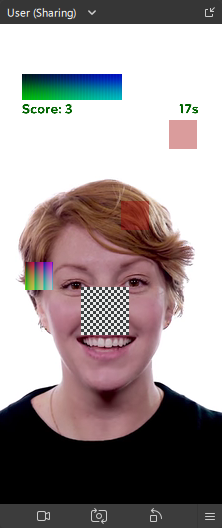
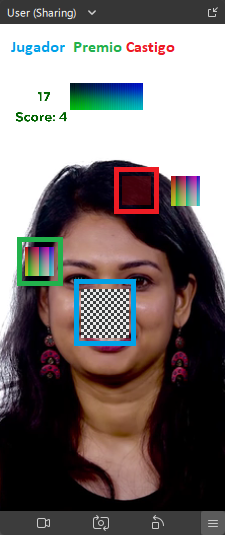
documentación

diff --git a/README.md b/README.md
@@ -1,167 +1,76 @@
-# Juego de destresa en META SPARK AR
+# Juego de destreza en META SPARK AR
 
-_Se puede colocar [Shields](https://shields.io/)_
+__Crear un juego de realidad aumentada con experiencia interactiva.__    
+Atrapa el mayor número de recompensas posibles (gana puntos) esquivando los castigos (pierde puntos). El jugador controla el juego con la nariz moviéndose en un plano 2D, se termina la partida en un tiempo determinado (30s) mostrando el puntaje más alto en las sesiones anteriores. El juego solo funciona con la cámara frontal del dispositivo.
 
-![GitHub package.json dynamic][a]
-![GitHub repo size][b]
-![GitHub top language][c]
-![GitHub language count][d]
-![GitHub][e]
-![GitHub commit activity][f]
-![GitHub package.json dynamic][g]
-![Twitter Follow][h]
-
-_Acá va un párrafo que describa lo que es el proyecto_
+|inicio|juego|final|
+|:-:|:-:|:-:|
+|![inicio](img/inicio.png)|![juego](img/juego.png)|![final](img/final.png)|
 
 ## Tabla de contenido:
 - [🚀 Comenzando][1]
     - [📋 Pre-requisitos][1.1]
     - [🔧 Instalación][1.2]
 - [Ejecutando las pruebas ⚙][2]
-    - [Analice las pruebas end-to-end 🔩][2.1]
-    - [Y las pruebas de estilo de codificación ⌨][2.2]
-- [Despliegue 📦][3]
-- [Construido con 🛠][4]
-- [Contribuyendo 🖇][5]
-- [Wiki 📖][6]
-- [Versionado 📌][7]
-- [Autores ✒][8]
-- [Licencia 📄][9]
-- [Expresiones de Gratitud 🎁][10]
+- [Construido con 🛠][3]
+- [Contribuyendo 🖇][4]
+- [Versionado 📌][5]
+- [Autores ✒][6]
+- [Licencia 📄][7]
+- [Expresiones de Gratitud 🎁][8]
 
 ## Comenzando 🚀
-
-_Estas instrucciones te permitirán obtener una copia del de desarrollo y pruebas._
-
-Mira **Deployment** para conocer como desplegar el proyecto.
-
+El repositorio se encuentra el archivo __juego_destreza.arproj__ .  
+Un archivo con la extensión .arproj es un proyecto de __Meta Spark AR__. El archivo incluye la configuración de la escena, las capas y los efectos que se han aplicado en el proyecto.
 
 ### Pre-requisitos 📋
-
-_Que cosas necesitas para instalar el software y como 
-instalarlas_
-
-```
-Da un ejemplo
-```
+* [Meta Spark Studio](https://sparkar.facebook.com/ar-studio/learn/downloads/#making-and-testing-effects)
+* [Meta Spark para VSC](https://marketplace.visualstudio.com/items?itemName=SparkAR.spark-ar-studio)
 
 ### Instalación 🔧
 
-_Una serie de ejemplos paso a paso que te dice lo que debes 
-ejecutar para tener un entorno de desarrollo ejecutandose_
-
-_Dí cómo será ese paso_
-
-```
-Da un ejemplo
-```
-
-_Y repite_
-
-```
-hasta finalizar
-```
-
-_Finaliza con un ejemplo de cómo obtener datos del sistema o 
-como usarlos para una pequeña demo_
+Ejecuta el archivo [juego_destreza.arproj](juego_destreza.arproj) desde _Meta Spark AR_ que contiene todos los recursos necesarios.
 
 ## Ejecutando las pruebas ⚙
-
-_Explica como ejecutar las pruebas automatizadas para este 
-sistema_
-
-### Analice las pruebas end-to-end 🔩
-
-_Explica que verifican estas pruebas y por qué_
-
-```
-Da un ejemplo
-```
-
-### Y las pruebas de estilo de codificación ⌨
-
-_Explica que verifican estas pruebas y por qué_
-
-```
-Da un ejemplo
-```
-
-## Despliegue 📦
-
-_Agrega notas adicionales sobre como hacer deploy_
+La aplicación móvil Spark AR Player es una aplicación gratuita que te permite probar tus filtros de Spark AR en tiempo real en dispositivos móviles. Puedes descargarla desde la App Store de Apple o Google Play Store.
 
 ## Construido con 🛠
-
-_Menciona las herramientas que utilizaste para crear tu 
-proyecto_
-
-* [Dropwizard](http://www.dropwizard.io/1.0.2/docs/) - El 
-framework web usado
-* [Maven](https://maven.apache.org/) - Manejador de 
-* [ROME](https://rometools.github.io/rome/) - Usado para 
-generar RSS
+* Meta Spark Studio
+* [scripting API](https://sparkar.facebook.com/ar-studio/learn/reference/scripting/summary)
 
 ## Contribuyendo 🖇
 
-Por favor lee el [CONTRIBUTING.md](https://gist.github.com/
-villanuevand/xxxxxx) para detalles de nuestro código de 
+Por favor lee el [CONTRIBUTING.md]() para detalles de nuestro código de 
 conducta, y el proceso para enviarnos pull requests.
-
-## Wiki 📖
-
-Puedes encontrar mucho más de cómo utilizar este proyecto en 
-nuestra [Wiki](https://github.com/tu/proyecto/wiki)
-
 ## Versionado 📌
-
 Usamos [SemVer](http://semver.org/) para el versionado. Para 
 todas las versiones disponibles, mira los [tags en este 
-repositorio](https://github.com/tu/proyecto/tags).
+repositorio](https://github.com/Alfonso6z/juego_destreza_sparkar/tags).
 
 ## Autores ✒
-
-_Menciona a todos aquellos que ayudaron a levantar el proyecto desde sus inicios_
-
-* **Alfonso González Zempoaltca** - *Trabajo Inicial* - [Alfonso6z](https://github.com/Alfonso6z)
-* **Fulanito Detal** - *Documentación* - [fulanitodetal](#fulanito-de-tal)
-
-También puedes mirar la lista de todos los [contribuyentes],(https://github.com/your/project/contributors) quíenes han participado en este proyecto.
+* [**Alfonso González Zempoaltca**](https://github.com/Alfonso6z)
+ - *Trabajo Inicial* 
+ - *Documentación*
 
 ## Licencia 📄
-
-Este proyecto está bajo la Licencia (Tu Licencia) - mira el 
-archivo [LICENSE.md](LICENSE.md) para detalles
+Este proyecto está bajo la Licencia MIT - mira el 
+archivo [LICENSE](LICENSE.md) para detalles
 
 ## Expresiones de Gratitud 🎁
-
 * Comenta a otros sobre este proyecto 📢
 * Invita una cerveza 🍺 o un café ☕ a alguien del equipo. 
 * Da las gracias públicamente 🤓.
-* etc.
-
 ---
 ⌨ con ❤ por [Alfonso Gónzalez Zempoalteca](https://github.com/Alfonso6z)😊
 
-[a]: https://img.shields.io/github/package-json/version/Alfonso6z/RWSUamiStream?color=gree
-[b]: https://img.shields.io/github/repo-size/Alfonso6z/RWSUamiStream?label=Tama%C3%B1o%20del%20repositorio
-[c]: https://img.shields.io/github/languages/top/Alfonso6z/RWSUamiStream?color=green
-[d]: https://img.shields.io/github/languages/count/Alfonso6z/RWSUamiStream?label=Lenguajes&color=yellow
-[e]: https://img.shields.io/github/license/Alfonso6z/RWSUamiStream
-[f]: https://img.shields.io/github/commit-activity/w/Alfonso6z/RWSUamiStream?color=orange
-[g]: https://img.shields.io/github/package-json/author/Alfonso6z/RWSUamiStream?color=purple
-[h]: https://img.shields.io/twitter/follow/Alfonso6Z?label=Seguir&style=social
 
 [1]: #comenzando-🚀
 [1.1]: #pre-requisitos-📋
 [1.2]: #instalación-🔧
 [2]: #ejecutando-las-pruebas-⚙
-[2.1]: #analice-las-pruebas-end-to-end-🔩
-[2.2]: #y-las-pruebas-de-estilo-de-codificación-⌨
-[3]: #despliegue-📦
-[4]: #donstruido-con-🛠
-[5]: #contribuyendo-🖇
-[6]: #wiki-📖
-[7]: #versionado-📌
-[8]: #autores-✒
-[9]: #licencia-📄
-[10]: #expresiones-de-gratitud-🎁
+[3]: #construido-con-🛠
+[4]: #contribuyendo-🖇
+[5]: #versionado-📌
+[6]: #autores-✒
+[7]: #licencia-📄
+[8]: #expresiones-de-gratitud-🎁

diff --git a/LICENSE.md b/LICENSE.md
@@ -1,0 +1,21 @@
+MIT License
+
+Copyright (c) 2023 ALFONSO GONZÁLEZ ZEMPOALTECA
+
+Permission is hereby granted, free of charge, to any person obtaining a copy
+of this software and associated documentation files (the "Software"), to deal
+in the Software without restriction, including without limitation the rights
+to use, copy, modify, merge, publish, distribute, sublicense, and/or sell
+copies of the Software, and to permit persons to whom the Software is
+furnished to do so, subject to the following conditions:
+
+The above copyright notice and this permission notice shall be included in all
+copies or substantial portions of the Software.
+
+THE SOFTWARE IS PROVIDED "AS IS", WITHOUT WARRANTY OF ANY KIND, EXPRESS OR
+IMPLIED, INCLUDING BUT NOT LIMITED TO THE WARRANTIES OF MERCHANTABILITY,
+FITNESS FOR A PARTICULAR PURPOSE AND NONINFRINGEMENT. IN NO EVENT SHALL THE
+AUTHORS OR COPYRIGHT HOLDERS BE LIABLE FOR ANY CLAIM, DAMAGES OR OTHER
+LIABILITY, WHETHER IN AN ACTION OF CONTRACT, TORT OR OTHERWISE, ARISING FROM,
+OUT OF OR IN CONNECTION WITH THE SOFTWARE OR THE USE OR OTHER DEALINGS IN THE
+SOFTWARE.   
